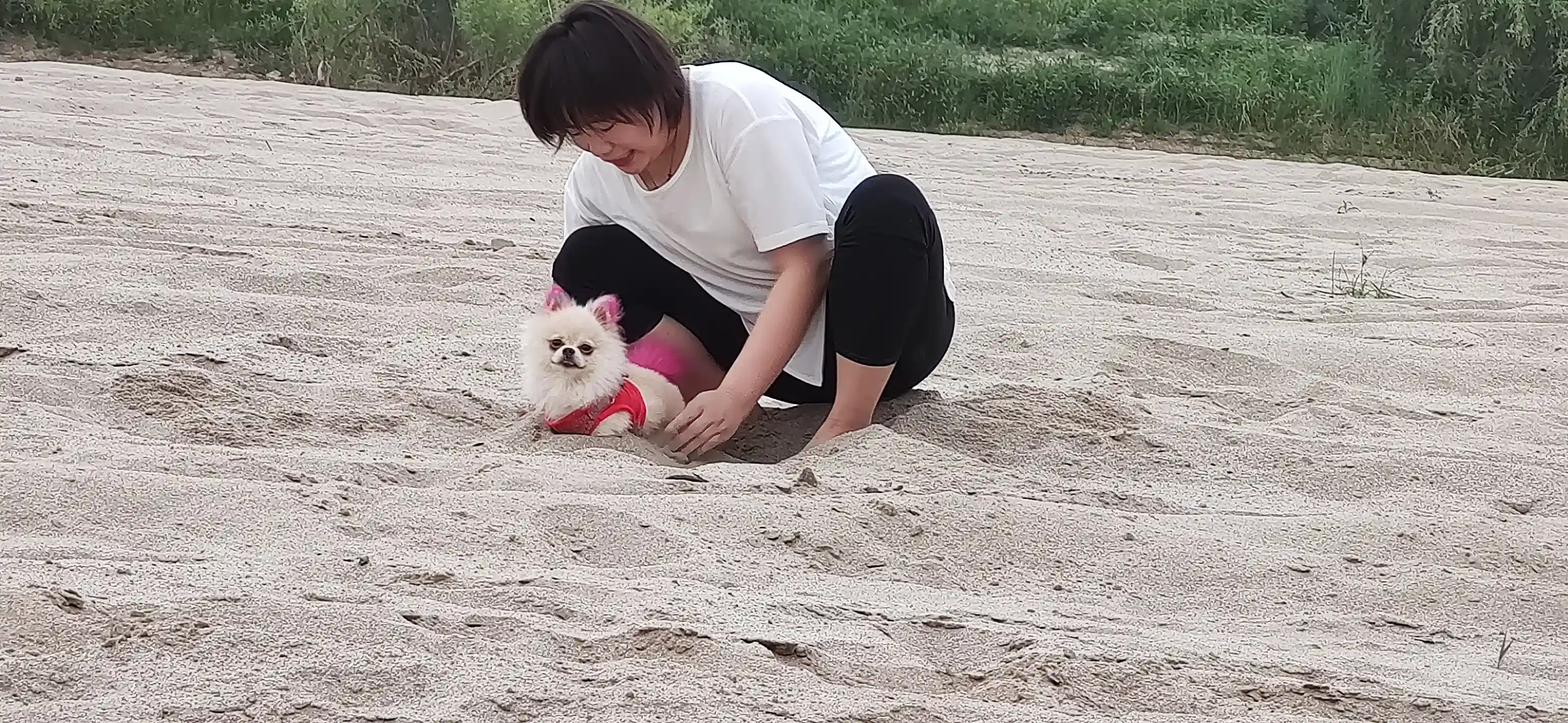
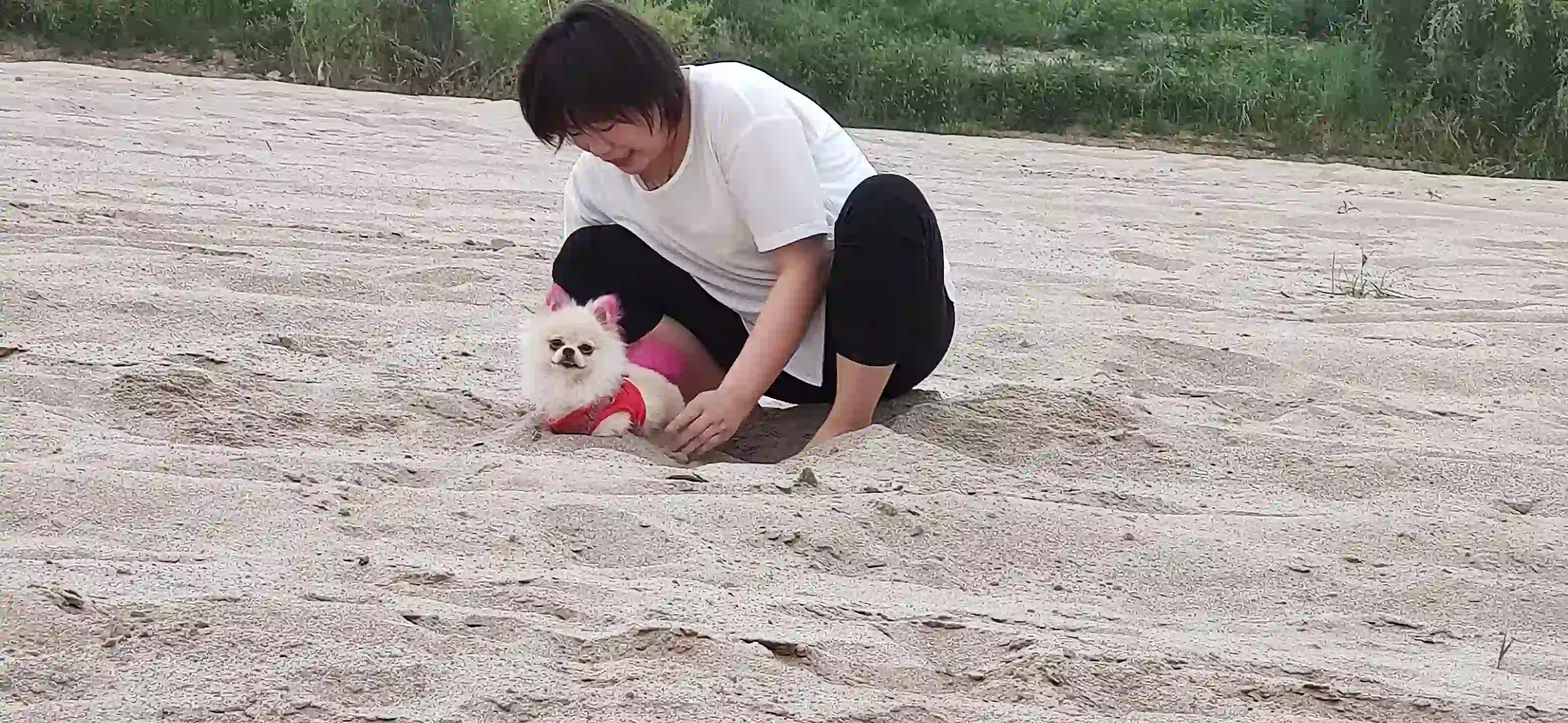
优化图片大小

diff --git a/album/webp.js b/album/webp.js
@@ -56,7 +56,7 @@ function getFileHash (filePath) {
 // console.log(getHashJson(resolve('./hash.json')))
 function createWebp (inputImage, outputImage, option = 80) {
   return new Promise((resolve, reject) => {
-    webp.cwebp(inputImage, outputImage, `-q ${option}`)
+    webp.cwebp(inputImage, outputImage, `-q ${option === 20 ? 0.01 : option}`)
       .then(res => {
         console.log('res:', res, inputImage)
         resolve()
